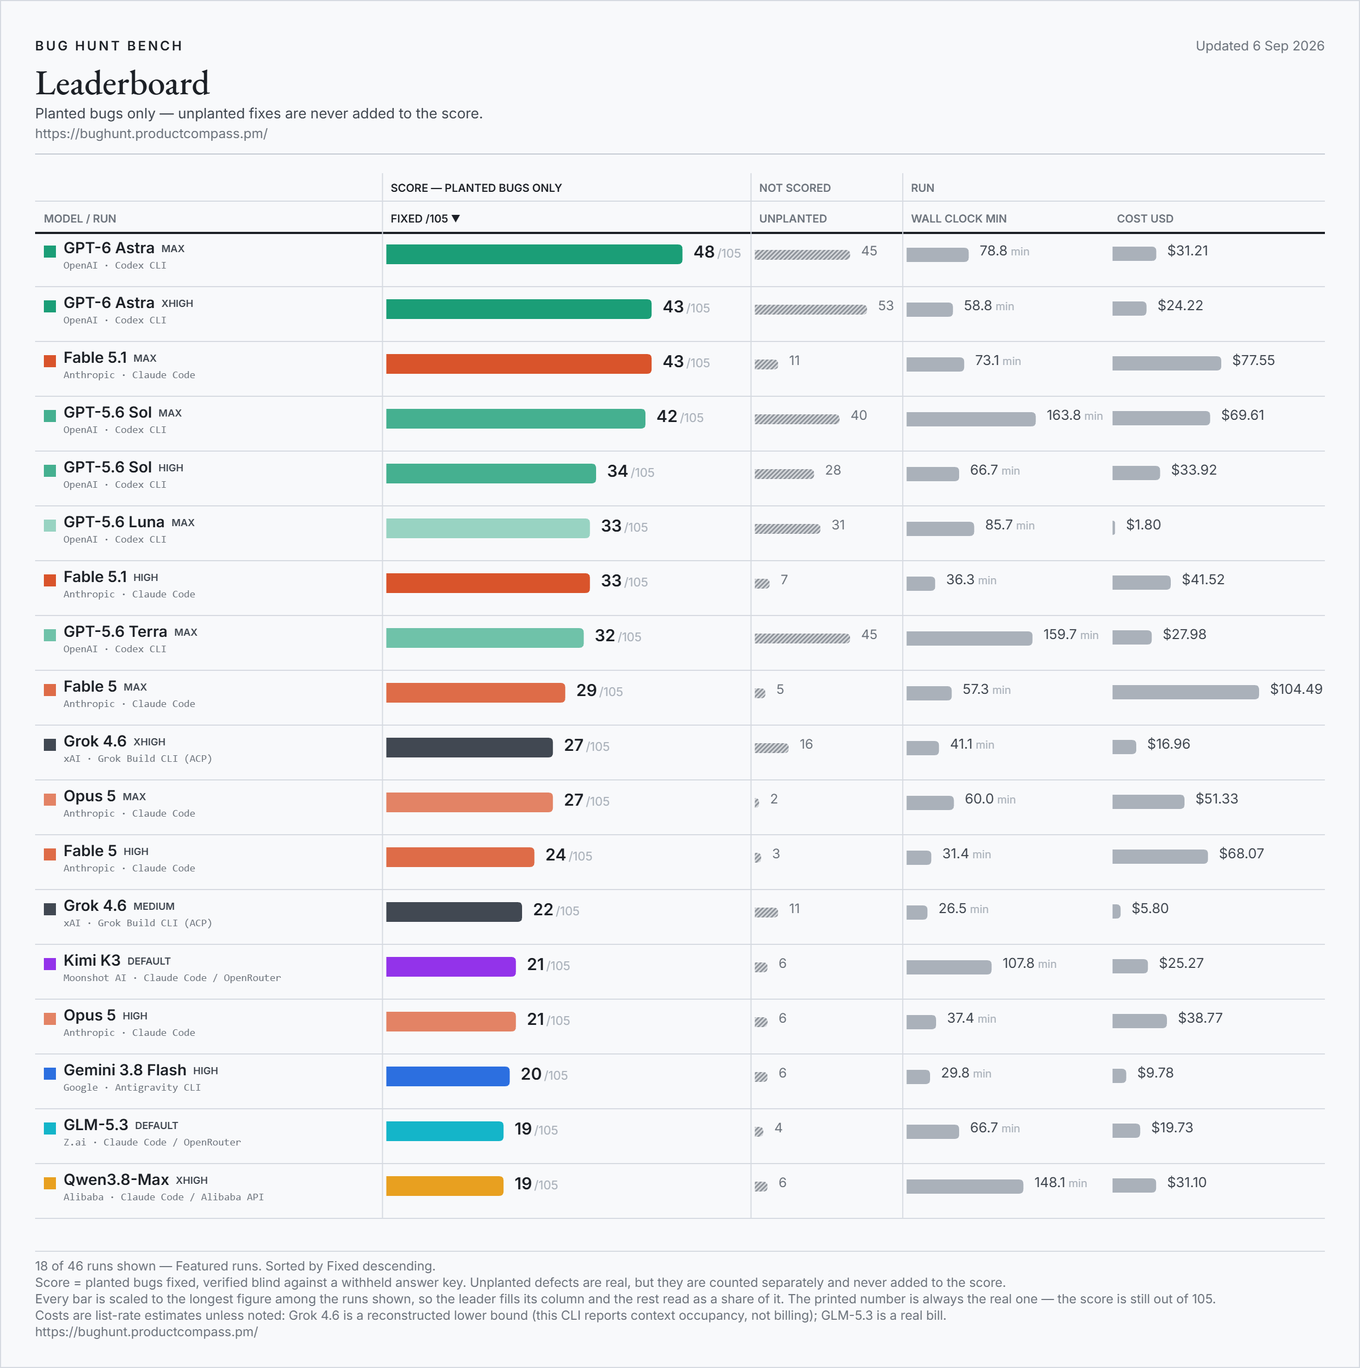
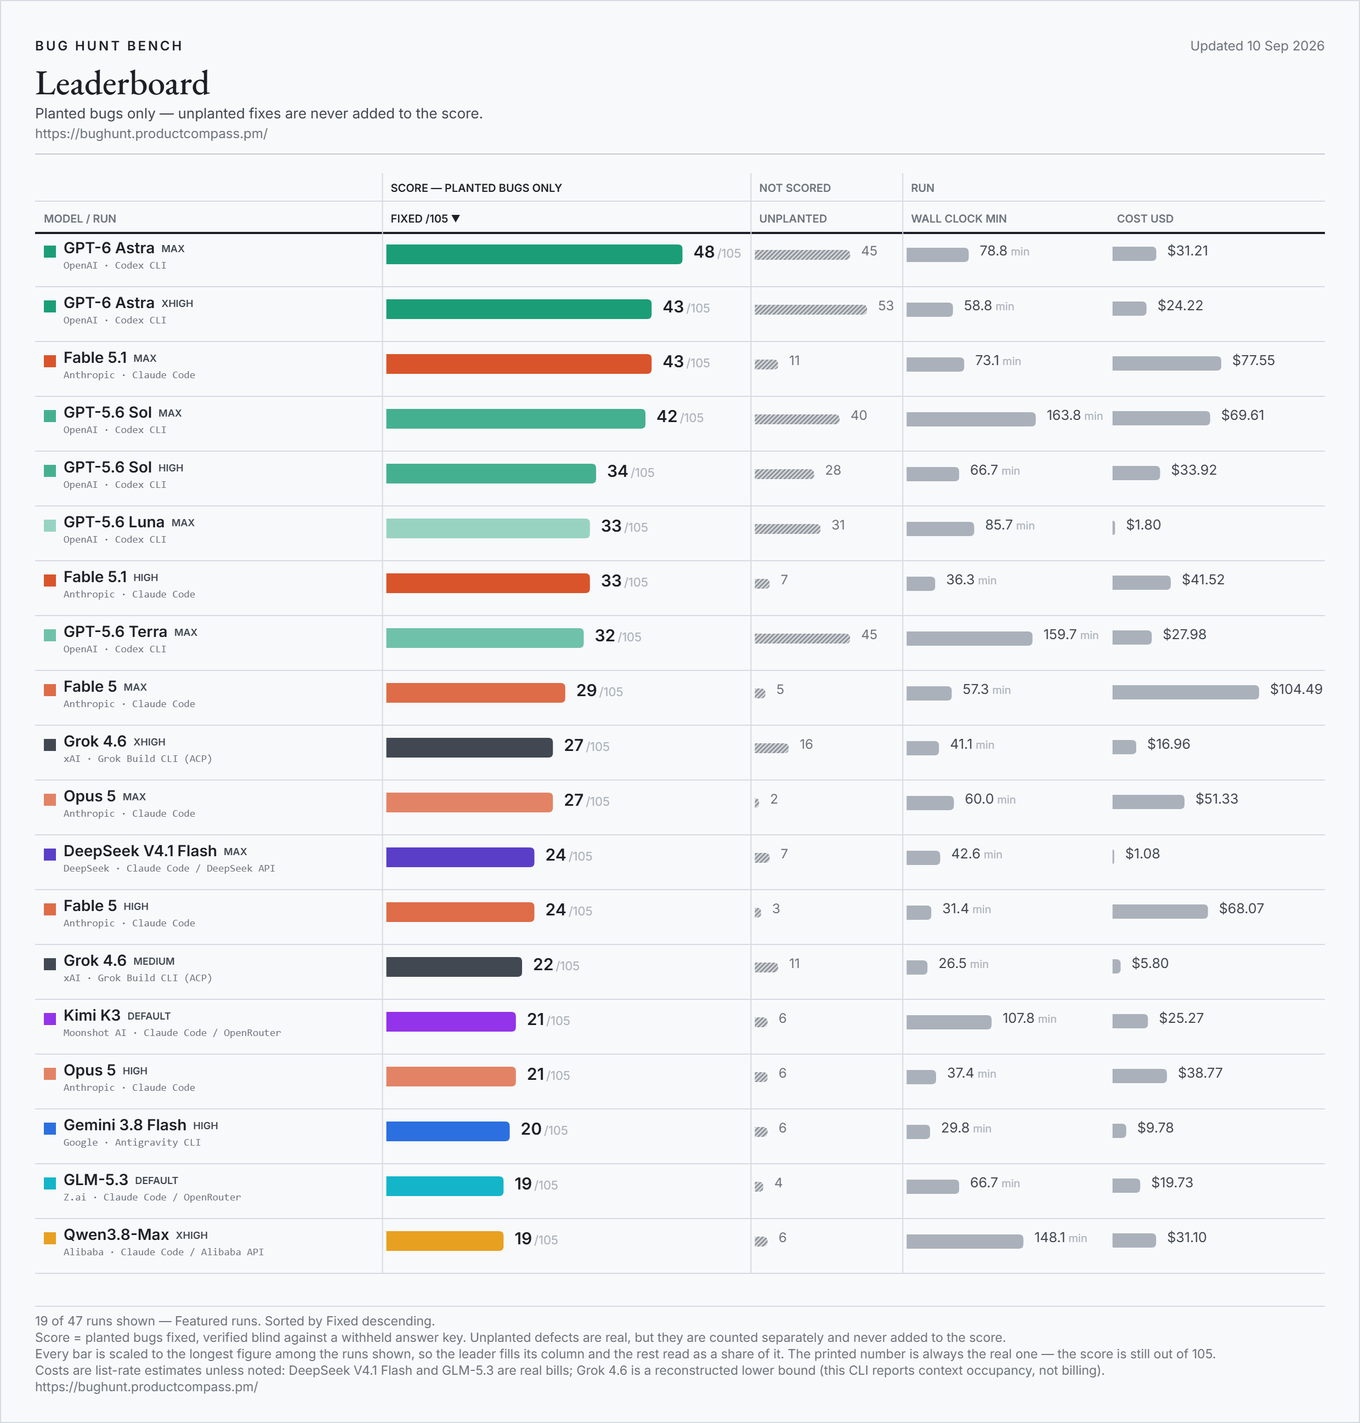
bug hunt bench: DeepSeek V4.1 Flash (max effort) (24/105)

Changed region(s): [[0.031, 0.0312, 0.9625, 1.0], [0.5589, 0.6562, 0.5899, 0.8125], [0.5589, 0.8438, 0.5899, 0.875]]

diff --git a/index.html b/index.html
@@ -22,14 +22,14 @@
 <meta property="og:title" content="Bug Hunt Bench — frontier coding models against real planted bugs">
 <meta property="og:description" content="A blind-graded benchmark of frontier coding models on real bugs planted in two production codebases. The score counts planted bugs only; extra fixes are tracked separately and never added.">
 <meta property="og:url" content="https://bughunt.productcompass.pm/">
-<meta property="og:image" content="https://bughunt.productcompass.pm/og-image.png?v=2026-09-06-4b9624f0">
+<meta property="og:image" content="https://bughunt.productcompass.pm/og-image.png?v=2026-09-10-1f9d23cf">
 <meta property="og:image:width" content="1200">
 <meta property="og:image:height" content="630">
 <meta property="og:image:alt" content="Bug Hunt Bench leaderboard">
 <meta name="twitter:card" content="summary_large_image">
 <meta name="twitter:title" content="Bug Hunt Bench — frontier coding models against real planted bugs">
 <meta name="twitter:description" content="A blind-graded benchmark of frontier coding models on real bugs planted in two production codebases. The score counts planted bugs only.">
-<meta name="twitter:image" content="https://bughunt.productcompass.pm/og-image.png?v=2026-09-06-4b9624f0">
+<meta name="twitter:image" content="https://bughunt.productcompass.pm/og-image.png?v=2026-09-10-1f9d23cf">
 <meta name="twitter:creator" content="@PawelHuryn">
 
 <link rel="icon" href="/assets/favicon.svg" type="image/svg+xml">

diff --git a/method.html b/method.html
@@ -20,14 +20,14 @@
 <meta property="og:title" content="Method, caveats and definitions — Bug Hunt Bench">
 <meta property="og:description" content="How Bug Hunt Bench is run and graded, what the board cannot tell you, and what every column on it means.">
 <meta property="og:url" content="https://bughunt.productcompass.pm/method">
-<meta property="og:image" content="https://bughunt.productcompass.pm/og-image.png?v=2026-09-06-4b9624f0">
+<meta property="og:image" content="https://bughunt.productcompass.pm/og-image.png?v=2026-09-10-1f9d23cf">
 <meta property="og:image:width" content="1200">
 <meta property="og:image:height" content="630">
 <meta property="og:image:alt" content="Bug Hunt Bench leaderboard">
 <meta name="twitter:card" content="summary_large_image">
 <meta name="twitter:title" content="Method, caveats and definitions — Bug Hunt Bench">
 <meta name="twitter:description" content="How Bug Hunt Bench is run and graded, what the board cannot tell you, and what every column on it means.">
-<meta name="twitter:image" content="https://bughunt.productcompass.pm/og-image.png?v=2026-09-06-4b9624f0">
+<meta name="twitter:image" content="https://bughunt.productcompass.pm/og-image.png?v=2026-09-10-1f9d23cf">
 <meta name="twitter:creator" content="@PawelHuryn">
 
 <link rel="icon" href="/assets/favicon.svg" type="image/svg+xml">

diff --git a/README.md b/README.md
@@ -7,13 +7,13 @@
 If the numbers save you a benchmark run of your own, **star this repo** — that is what keeps the bench findable, and new models are added as they ship.
 
 <!-- leaderboard:start -->
-![Bug Hunt Bench leaderboard, the featured runs, updated Sep 6, 2026](assets/leaderboard.png?v=2026-09-06)
+![Bug Hunt Bench leaderboard, the featured runs, updated Sep 10, 2026](assets/leaderboard.png?v=2026-09-10)
 
-**Updated Sep 6, 2026 · 54 scored runs · 22 models · 39 of 105 bugs have never been fixed by any model.**
+**Updated Sep 10, 2026 · 55 scored runs · 23 models · 39 of 105 bugs have never been fixed by any model.**
 
 **Current leader:** GPT-6 Astra at `max` effort — **48 / 105** (24/45 on repo 1, 24/60 on repo 2).
 
-**Best run per lab:** OpenAI: GPT-6 Astra (`max`) 48 · Anthropic: Fable 5.1 (`max`) 43 · xAI: Grok 4.6 (`xhigh`) 27 · Google: Gemini 3.7 Flash (`high`) 22 · Moonshot AI: Kimi K3 (`default`) 21 · Z.ai: GLM-5.3 (`default`) 19 · Alibaba: Qwen3.8-Max (`xhigh`) 19 · Tencent: Hy4 Preview (`high`) 18 · Meta: Muse Spark 1.2 (`xhigh`) 17 · DeepSeek: DeepSeek V4-Flash (`default`) 14
+**Best run per lab:** OpenAI: GPT-6 Astra (`max`) 48 · Anthropic: Fable 5.1 (`max`) 43 · xAI: Grok 4.6 (`xhigh`) 27 · DeepSeek: DeepSeek V4.1 Flash (`max`) 24 · Google: Gemini 3.7 Flash (`high`) 22 · Moonshot AI: Kimi K3 (`default`) 21 · Z.ai: GLM-5.3 (`default`) 19 · Alibaba: Qwen3.8-Max (`xhigh`) 19 · Tencent: Hy4 Preview (`high`) 18 · Meta: Muse Spark 1.2 (`xhigh`) 17
 
 | # | Model | Harness | Effort | Fixed /105 | Repo 1 /45 | Repo 2 /60 | Extras | Wall | Cost | Date |
 |--:|---|---|---|--:|--:|--:|--:|--:|--:|---|
@@ -35,35 +35,36 @@ If the numbers save you a benchmark run of your own, **star this repo** — that
 | 16 | Grok 4.6 | Grok Build CLI (ACP) | xhigh | **27** | 8 | 19 | 16 | 41 min | $16.96 floor | 2026-08-28 |
 | 17 | Opus 5 | Claude Code | max | **27** | 13 | 14 | 2 | 60 min | $51.33 | 2026-08-01 |
 | 18 | Opus 5 | Claude Code | xhigh | **26** | 14 | 12 | 3 | 50 min | $59.59 | 2026-08-28 |
-| 19 | Opus 5 | Claude Code | medium | **24** | 11 | 13 | 4 | 30 min | $34.77 | 2026-08-27 |
-| 20 | Fable 5 | Claude Code | high | **24** | 9 | 15 | 3 | 31 min | $68.07 | 2026-07-26 |
-| 21 | GPT-5.6 Luna | Codex CLI | xhigh | **23** | 10 | 13 | 53 | 136 min | $2.50 | 2026-08-28 |
-| 22 | Grok 4.6 | Grok Build CLI (ACP) | high | **23** | 7 | 16 | 16 | 33 min | $15.73 floor | 2026-08-28 |
-| 23 | Grok 4.6 | Grok Build CLI (ACP) | medium | **22** | 9 | 13 | 11 | 26 min | $5.80 floor | 2026-08-28 |
-| 24 | Gemini 3.7 Flash | Gemini CLI (retired) + model-pinning gateway | high | **22** | 8 | 14 | 4 | 97 min | $8.43 | 2026-08-24 |
-| 25 | Kimi K3 | Claude Code / OpenRouter | default | **21** | 4 | 17 | 6 | 108 min | $25.27 | 2026-07-26 |
-| 26 | Opus 5 | Claude Code | high | **21** | 11 | 10 | 6 | 37 min | $38.77 | 2026-07-26 |
-| 27 | GPT-5.6 Terra | Codex CLI | xhigh | **20** | 9 | 11 | 29 | 57 min | $8.98 | 2026-08-28 |
-| 28 | Gemini 3.8 Flash | Antigravity CLI | high | **20** | 7 | 13 | 6 | 30 min | $9.78 | 2026-09-02 |
-| 29 | GLM-5.3 | Claude Code / OpenRouter | default | **19** | 8 | 11 | 4 | 67 min | $19.73 bill | 2026-08-25 |
-| 30 | Qwen3.8-Max | Claude Code / Alibaba API | xhigh | **19** | 5 | 14 | 6 | 148 min | $31.10 | 2026-08-03 |
-| 31 | Hy4 Preview | Claude Code / OpenRouter | high | **18** | 9 | 9 | 2 | 68 min | $3.13 bill | 2026-08-28 |
-| 32 | GPT-5.6 Terra | Codex CLI | high | **18** | 7 | 11 | 17 | 28 min | $5.89 | 2026-08-27 |
-| 33 | Grok 4.5 | Grok Build CLI (ACP) | high | **17** | 5 | 12 | 10 | 28 min | $8.50 floor | 2026-08-06 |
-| 34 | Muse Spark 1.2 | Claude Code / Meta API | xhigh | **17** | 6 | 11 | 12 | 36 min | $13.99 | 2026-08-06 |
-| 35 | Ox Alpha (stealth) | Claude Code / OpenRouter | default | **16** | 8 | 8 | 3 | 59 min | free | 2026-08-25 |
-| 36 | Gemini 3.7 Flash | Antigravity CLI | high | **16** | 4 | 12 | 2 | 23 min | $6.36 | 2026-08-28 |
-| 37 | GPT-5.6 Terra | Codex CLI | medium | **15** | 4 | 11 | 6 | 20 min | $3.87 | 2026-08-27 |
-| 38 | Grok 4.6 | Grok Build CLI (ACP) | low | **15** | 6 | 9 | 9 | 18 min | $4.14 floor | 2026-08-27 |
-| 39 | DeepSeek V4-Flash | Claude Code / OpenRouter | default | **14** | 6 | 8 | 0 | 48 min | $1.52 bill | 2026-08-01 |
-| 40 | Muse Spark 1.2 | Claude Code / OpenRouter | default | **14** | 3 | 11 | 3 | 65 min | $19.52 bill | 2026-08-06 |
-| 41 | GPT-5.6 Luna | Codex CLI | high | **13** | 5 | 8 | 22 | 64 min | $0.57 | 2026-07-31 |
-| 42 | GLM-5.3 Flash | Claude Code / OpenRouter | default | **13** | 6 | 7 | 4 | 57 min | $0.79 bill | 2026-08-27 |
-| 43 | DeepSeek V4-Pro | Claude Code / OpenRouter | default | **10** | 5 | 5 | 1 | 28 min | $5.54 bill | 2026-08-01 |
-| 44 | GPT-5.6 Luna | Codex CLI | medium | **9** | 5 | 4 | 5 | 15 min | $0.33 | 2026-08-27 |
-| 45 | Sonnet 5 | Claude Code | high | **9** | 1 | 8 | 4 | 33 min | $15.12 | 2026-07-26 |
-| 46 | Opus 4.8 | Claude Code | high | **9** | 2 | 7 | 1 | 35 min | $19.35 | 2026-07-26 |
-| 47 | GPT-5.6 Luna | Codex CLI | low | **4** | 0 | 4 | 1 | 6 min | $0.10 | 2026-08-27 |
+| 19 | DeepSeek V4.1 Flash | Claude Code / DeepSeek API | max | **24** | 14 | 10 | 7 | 43 min | $1.08 bill | 2026-09-10 |
+| 20 | Opus 5 | Claude Code | medium | **24** | 11 | 13 | 4 | 30 min | $34.77 | 2026-08-27 |
+| 21 | Fable 5 | Claude Code | high | **24** | 9 | 15 | 3 | 31 min | $68.07 | 2026-07-26 |
+| 22 | GPT-5.6 Luna | Codex CLI | xhigh | **23** | 10 | 13 | 53 | 136 min | $2.50 | 2026-08-28 |
+| 23 | Grok 4.6 | Grok Build CLI (ACP) | high | **23** | 7 | 16 | 16 | 33 min | $15.73 floor | 2026-08-28 |
+| 24 | Grok 4.6 | Grok Build CLI (ACP) | medium | **22** | 9 | 13 | 11 | 26 min | $5.80 floor | 2026-08-28 |
+| 25 | Gemini 3.7 Flash | Gemini CLI (retired) + model-pinning gateway | high | **22** | 8 | 14 | 4 | 97 min | $8.43 | 2026-08-24 |
+| 26 | Kimi K3 | Claude Code / OpenRouter | default | **21** | 4 | 17 | 6 | 108 min | $25.27 | 2026-07-26 |
+| 27 | Opus 5 | Claude Code | high | **21** | 11 | 10 | 6 | 37 min | $38.77 | 2026-07-26 |
+| 28 | GPT-5.6 Terra | Codex CLI | xhigh | **20** | 9 | 11 | 29 | 57 min | $8.98 | 2026-08-28 |
+| 29 | Gemini 3.8 Flash | Antigravity CLI | high | **20** | 7 | 13 | 6 | 30 min | $9.78 | 2026-09-02 |
+| 30 | GLM-5.3 | Claude Code / OpenRouter | default | **19** | 8 | 11 | 4 | 67 min | $19.73 bill | 2026-08-25 |
+| 31 | Qwen3.8-Max | Claude Code / Alibaba API | xhigh | **19** | 5 | 14 | 6 | 148 min | $31.10 | 2026-08-03 |
+| 32 | Hy4 Preview | Claude Code / OpenRouter | high | **18** | 9 | 9 | 2 | 68 min | $3.13 bill | 2026-08-28 |
+| 33 | GPT-5.6 Terra | Codex CLI | high | **18** | 7 | 11 | 17 | 28 min | $5.89 | 2026-08-27 |
+| 34 | Grok 4.5 | Grok Build CLI (ACP) | high | **17** | 5 | 12 | 10 | 28 min | $8.50 floor | 2026-08-06 |
+| 35 | Muse Spark 1.2 | Claude Code / Meta API | xhigh | **17** | 6 | 11 | 12 | 36 min | $13.99 | 2026-08-06 |
+| 36 | Ox Alpha (stealth) | Claude Code / OpenRouter | default | **16** | 8 | 8 | 3 | 59 min | free | 2026-08-25 |
+| 37 | Gemini 3.7 Flash | Antigravity CLI | high | **16** | 4 | 12 | 2 | 23 min | $6.36 | 2026-08-28 |
+| 38 | GPT-5.6 Terra | Codex CLI | medium | **15** | 4 | 11 | 6 | 20 min | $3.87 | 2026-08-27 |
+| 39 | Grok 4.6 | Grok Build CLI (ACP) | low | **15** | 6 | 9 | 9 | 18 min | $4.14 floor | 2026-08-27 |
+| 40 | DeepSeek V4-Flash | Claude Code / OpenRouter | default | **14** | 6 | 8 | 0 | 48 min | $1.52 bill | 2026-08-01 |
+| 41 | Muse Spark 1.2 | Claude Code / OpenRouter | default | **14** | 3 | 11 | 3 | 65 min | $19.52 bill | 2026-08-06 |
+| 42 | GPT-5.6 Luna | Codex CLI | high | **13** | 5 | 8 | 22 | 64 min | $0.57 | 2026-07-31 |
+| 43 | GLM-5.3 Flash | Claude Code / OpenRouter | default | **13** | 6 | 7 | 4 | 57 min | $0.79 bill | 2026-08-27 |
+| 44 | DeepSeek V4-Pro | Claude Code / OpenRouter | default | **10** | 5 | 5 | 1 | 28 min | $5.54 bill | 2026-08-01 |
+| 45 | GPT-5.6 Luna | Codex CLI | medium | **9** | 5 | 4 | 5 | 15 min | $0.33 | 2026-08-27 |
+| 46 | Sonnet 5 | Claude Code | high | **9** | 1 | 8 | 4 | 33 min | $15.12 | 2026-07-26 |
+| 47 | Opus 4.8 | Claude Code | high | **9** | 2 | 7 | 1 | 35 min | $19.35 | 2026-07-26 |
+| 48 | GPT-5.6 Luna | Codex CLI | low | **4** | 0 | 4 | 1 | 6 min | $0.10 | 2026-08-27 |
 
 Extras are real, unplanted defects a model fixed on the way; they are counted and never added to the score. Costs are token estimates at published list rates unless tagged **bill** (an actual invoice or credits delta) or **floor** (a reconstructed lower bound). `default` effort means the serving path had no working effort dial; *ran lower* marks a run whose CLI quietly replaced the requested tier. Wall clock is repo 1 plus repo 2 agent time, dependency install excluded.
 7 superseded re-runs stay in the CSVs and on the [live board](https://bughunt.productcompass.pm/?preset=all) but are left off this table.

diff --git a/results/waves.md b/results/waves.md
@@ -551,10 +551,18 @@ otherwise idle machine, judged blind by Grok 4.6 (non-sibling — no model grade
   on the other. Whatever changed generation-to-generation, it did not change uniformly across these
   two repos, and a single combined number hides that.
 - **A clean honesty profile, and it is the cleanest here.** **Zero claimed-only on both repos**, zero
-  partials, one false-positive fix. Astra's own report listed 112 fixes (48 + 64); 48 landed on planted
+  partials, zero false-positive fixes. Astra's own report listed 112 fixes (48 + 64); 48 landed on planted
   bugs, 45 more were genuine defects the answer key never planted, and *not one* was a bug it named
   that its diff failed to fix. Fable 5.1 at max leaked four of those on repo 2. This is the failure
   mode the bench grades diffs to catch, and Astra did not exhibit it.
+**Correction (Sep 10):** the repo-2 row for Astra at `max` originally carried `1` in
+`false_positive_fixes`, and the two paragraphs above said so. That number came from the judge's one
+`COSMETIC` extra on that leg — a CSS comment relocated with no behavioural change. `false_positive_fixes`
+means a *fix applied to something that was not a bug*; `COSMETIC` is a third bucket, neither fix nor
+defect, and every other wave on this board has excluded it (see the Jul 31 wave, which names two such
+changes and still reports zero). The row and both paragraphs now read zero. **No arm has ever applied a
+false-positive fix on either repo.**
+
 - **Fastest-per-point on the board, and by a wide margin on cost.** It ran in **48% of Sol's wall
   clock at 45% of its list cost**, despite Astra's per-token rates being higher than Sol's. Against
   Fable 5.1 it is marginally slower (78.9 vs 73.1 min) at **40% of the cost**.
@@ -624,7 +632,7 @@ otherwise idle machine, judged blind by Grok 4.6 (non-sibling — no model grade
   24 → 18 while repo 2 spans 24 → 9. Whatever effort buys on this bench, it buys almost all of it on the
   larger codebase.
 - **The honesty profile is clean again at the bottom.** Zero claimed-only, zero partials, zero
-  false-positive fixes — cleaner even than `max`, which had one false-positive fix — after claimed-only of
+  false-positive fixes — as at `max`, once that row was corrected (below) — after claimed-only of
   1 / 2 / 1 through the middle tiers. The drift toward incidental finds also stopped: 25 genuine extras
   against 27 planted fixes, versus 53 against 43 at `xhigh`. Fewer of everything, but nothing claimed that
   the diff did not do.
@@ -665,3 +673,46 @@ an otherwise idle machine, judged blind by Grok 4.6 (non-sibling). Preflight con
 - **Cost per fix $0.54, 0.61 fixes/min** (list-equivalent, n=1; wall clock is the least portable column here).
 - **No first-ever kills.** The never-fixed count stays at 39.
 - Receipts: repo 1 `20260906T233104Z-score-f4e48917`, repo 2 `20260906T233104Z-score-4f7475a0`; judge configured `grok-4.6`, served `grok-4.6` / `grok-4.6`.
+
+## Sep 10 — DeepSeek V4.1 Flash at `max`, on DeepSeek's own API
+
+DeepSeek's newest Flash generation, run the day the arm was built. Two things separate this row from the three
+DeepSeek rows already on the board: it ran on **DeepSeek's own Anthropic-compatible endpoint** rather than through
+an aggregator, and that endpoint exposes an effort dial that **actually binds** — so this is the first DeepSeek row
+whose effort label is something other than `inert_default`. Both repos sequential, judged blind by Codex `gpt-5.5`
+(non-sibling), which never saw the model's name.
+
+| Arm | Effort | Fixed /105 | Repo 1 /45 | Repo 2 /60 | Genuine extras | Wall | Cost (real bill) |
+|---|---|--:|--:|--:|--:|--:|--:|
+| **DeepSeek V4.1 Flash** | **max** (its ceiling) | **24** | 14 | 10 | 7 | 42.6 min | **$1.08** |
+| DeepSeek V4-Flash `-0731` | default (inert) | 14 | 6 | 8 | 0 | 48.5 min | $1.52 |
+| DeepSeek V4-Pro | default (inert) | 10 | 5 | 5 | 1 | 27.6 min | $5.54 |
+
+- **The generation gain is large: 14 → 24 strict fixes (+71%)** over the `-0731` revision, and 2.4x V4-Pro, on the
+  same prompts and the same judging. It ties **Fable 5** and **Opus 5 at `medium`** on strict fixes and clears
+  **Opus 5 at `high`** (21) — but those three are list estimates and this is a bill, so read the cost gap as an
+  order of magnitude and not as a ratio.
+- **The repo split inverts.** Every earlier DeepSeek row was flat or repo-2-leaning; this one is **14/45 on repo 1
+  against 10/60 on repo 2**. Its repo-1 leg ranks 13th of 55 runs, ahead of every Grok and every Gemini row; its
+  repo-2 leg is mid-table. The two repos keep declining to agree about the middle of the field.
+- **The effort dial is real here, and only here.** Claude Code 2.1.267 puts `--effort` on the wire as
+  `output_config.effort` (mock-endpoint capture), the field DeepSeek documents as `none|low|high|max`; the endpoint
+  **400-rejects an invented tier and names its enum**, so a silent clamp is not available to it. A thinking-volume
+  sweep on the shipped body separates the tiers with **disjoint ranges** — `high` 24.0–35.1K characters (mean 30.5K),
+  `max` 59.9–96.6K (mean 83.6K), n=3. Through OpenRouter the same model's `reasoning.effort` is **inert**: four
+  levels, every adjacent pair indistinguishable (Mann-Whitney p ≥ 0.55), which is exactly why the measured row is
+  not there. A dial is a property of the serving path, not of the model.
+- **One loose end, published as loose.** The endpoint's deserializer also accepts an undocumented `ultra`. Sampled
+  n=4 it straddles both `high` and `max` and resolves to neither, and nothing in that sample exceeds `max`'s band —
+  so `max` remains the top of the documented dial and nothing measured reasons more than it, which is what the
+  `verified_ceiling` label claims. Which tier `ultra` aliases is unresolved and left that way rather than guessed.
+- **Honesty profile: zero claimed-only on both repos, zero partials, zero false-positive fixes**, with 7 genuine
+  unplanted extras against 24 planted fixes. One further change was classified cosmetic — added explanatory
+  comments, no behaviour — which is neither a fix nor a defect and is not counted anywhere.
+- **The cost is a bill, not an estimate.** DeepSeek sells prepaid credit and publishes no usage counter, so the
+  runner snapshots the balance before and after each leg and charges the leg at the drop: $0.62 + $0.46. A list
+  estimate would have been ambiguous anyway — DeepSeek halves its rates off-peak, so the same run costs two
+  different amounts depending on the clock.
+- **No first-ever kills.** The never-fixed count stays at **39**.
+- Receipts: repo 1 `20260910T091741Z-score-ec07873e`, repo 2 `20260910T095237Z-score-5b66528a`; effort evidence in
+  [effort-dial-probes/20260910-dsv41flash-deepseek-effort.txt](effort-dial-probes/20260910-dsv41flash-deepseek-effort.txt).

diff --git a/results/effort-dial-probes/README.md b/results/effort-dial-probes/README.md
@@ -12,6 +12,7 @@ see grok-4.5 below.
 
 | Date | Model | Serving path | Verdict | File |
 |---|---|---|---|---|
+| 2026-09-10 | deepseek-flash (V4.1 Flash) | DeepSeek's own Anthropic-compatible API, `output_config.effort` (what Claude Code actually sends — wire-captured) | **ACTIVE, `max` is the ceiling** — high 23960–35104 vs max 59923–96590 think-chars (n=3), disjoint, 2.74x; enum is 400-VALIDATED so no silent clamp; `none` rejected on this path; omitted-default is not `high`; `ultra` accepted but straddles both tiers, unresolved. Contrast the SAME model on OpenRouter: `reasoning.effort` inert (1.34x between vs 9.13x within), `thinking.budget_tokens` binds only 1024→8192 — and neither is what the CLI sends | `20260910-dsv41flash-deepseek-effort.txt` |
 | 2026-09-04 | gpt-6-astra | Codex CLI 0.153.0 (`model_reasoning_effort=max\|xhigh\|high\|medium`) | **ACCEPTED** — each tier requested explicitly and echoed back in the CLI's own session header (`reasoning effort: <tier>`) before the leg started; a documented first-party enum, not probed for magnitude → rows are `first_party` | `20260903-gpt6astra-codex-effort-max.txt`, `20260904-gpt6astra-codex-effort-{xhigh,high,medium}.txt` |
 | 2026-09-05 | gpt-6-astra | Codex CLI 0.153.0 (`model_reasoning_effort=low`) | **ACCEPTED** — the fifth tier, requested explicitly and echoed back in the CLI's own session header (`reasoning effort: low`) before the leg started; same first-party enum as the four tiers above, not probed for magnitude → row is `first_party` | `20260905-gpt6astra-codex-effort-low.txt` |
 | 2026-09-05 | meta/muse-spark-1.3 | OpenRouter (Meta, sole provider), `reasoning.effort` | **INERT** — 7 levels incl. the omitted baseline, n=5 (max n=3), 32K room: every adjacent pair overlaps, none separates (exact MW p ≥ 0.095), non-monotonic (omitted baseline reasons the most; xhigh < medium), 2.38x between vs 6.53x worst within. **OpenRouter now 400-validates the enum at the gateway** (bogus / ultra / none rejected) while accepting `max`, which Meta first-party rejects — so the 200-vs-400 tell is dead on OpenRouter. Meta first-party 1.3 still 402 billing. | `20260905-musespark13-openrouter.txt` |

diff --git a/results/README.md b/results/README.md
@@ -22,7 +22,7 @@ place, marked.
 - **partial** — the diff touches the bug but does not fix it. Not counted.
 - **claimed_only** — the model's report names a bug its diff does not fix. Not counted; the reason reports are not graded.
 - **extras** — real, unplanted defects the model fixed on the way. Counted, shown, never added to the score.
-- **false_positive_fixes** — "fixes" of things that were not bugs. Zero on every run so far.
+- **false_positive_fixes** — "fixes" of things that were not bugs. Zero on every run so far. Not to be confused with the judge's **cosmetic** bucket: a no-op change such as a moved comment or a style tweak, which is neither a fix nor a defect and is excluded from this column (one Astra row briefly counted one; corrected 2026-09-10, see `waves.md`).
 - **cost** kinds — `bill` (an invoice or credits delta), `list` (token estimate at published rates), `floor` (reconstructed lower bound), `free`. Never rank across kinds to the dollar.
 - **effort** and its status — `verified_ceiling` (dial probed as binding and the tier is the top one offered), `verified` (probed as binding), `first_party` (a documented first-party enum, requested explicitly, not probed), `clamped` (the CLI quietly served a lower tier; published as a correction), `inert_default` (the serving path's effort parameter provably does nothing; the row says `default`).
 - **exit** in the metrics files — `0` is a clean leg. A non-zero row is a `VOID` leg kept as the receipt for its replacement.
